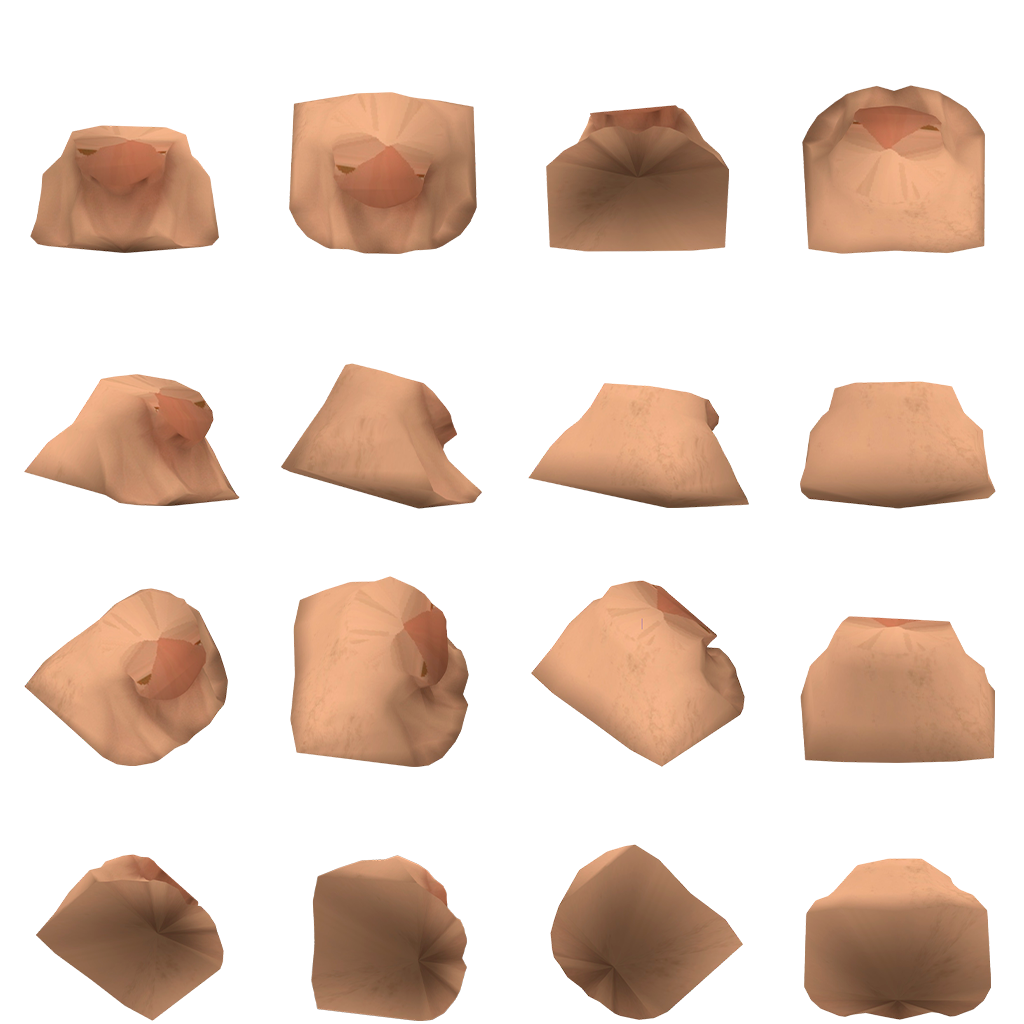
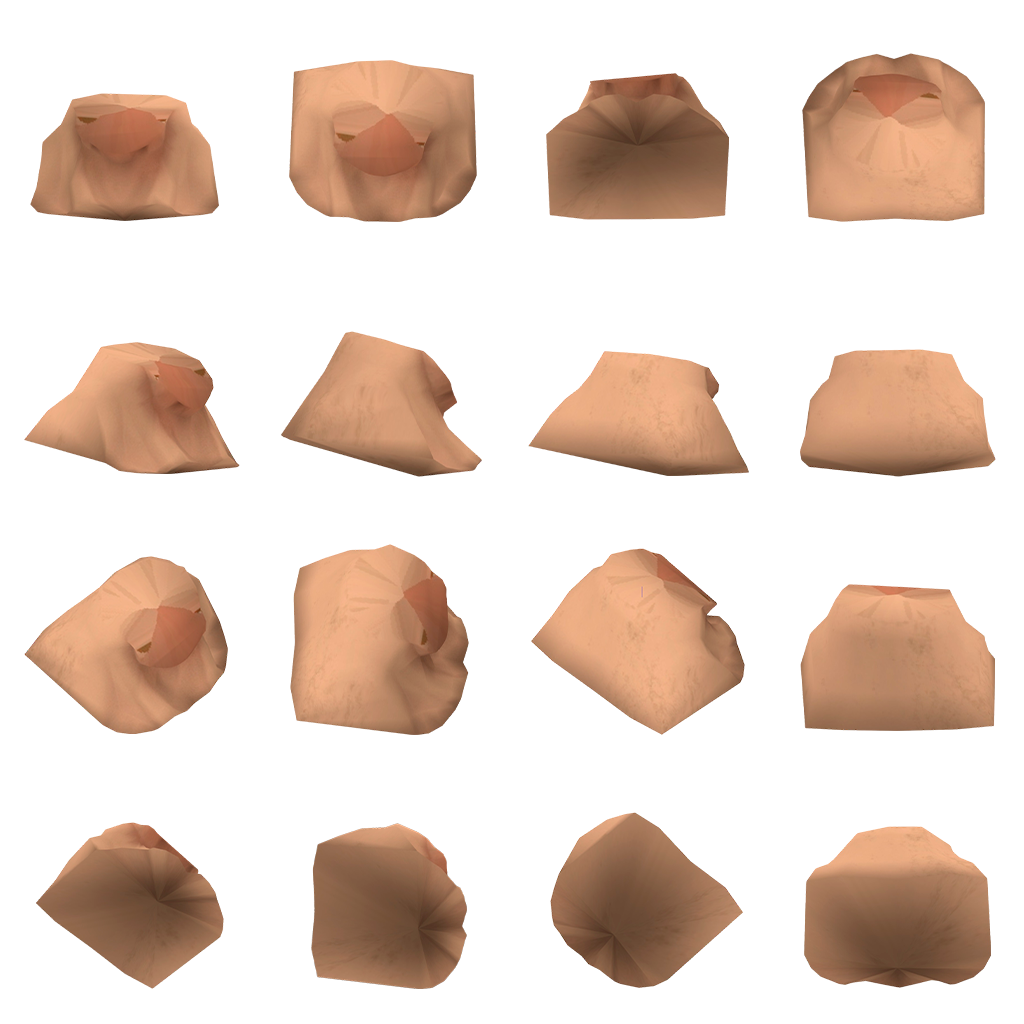
parts

diff --git a/RayPuppet3D/src/main.c b/RayPuppet3D/src/main.c
@@ -12,7 +12,7 @@
 
 #define BASE_WIDTH 1920
 #define BASE_HEIGHT 1080
-#define MAX_TEXTURES 10
+#define MAX_TEXTURES 13
 #define MAX_RENDER_ITEMS 512
 
 // Constantes optimizadas
